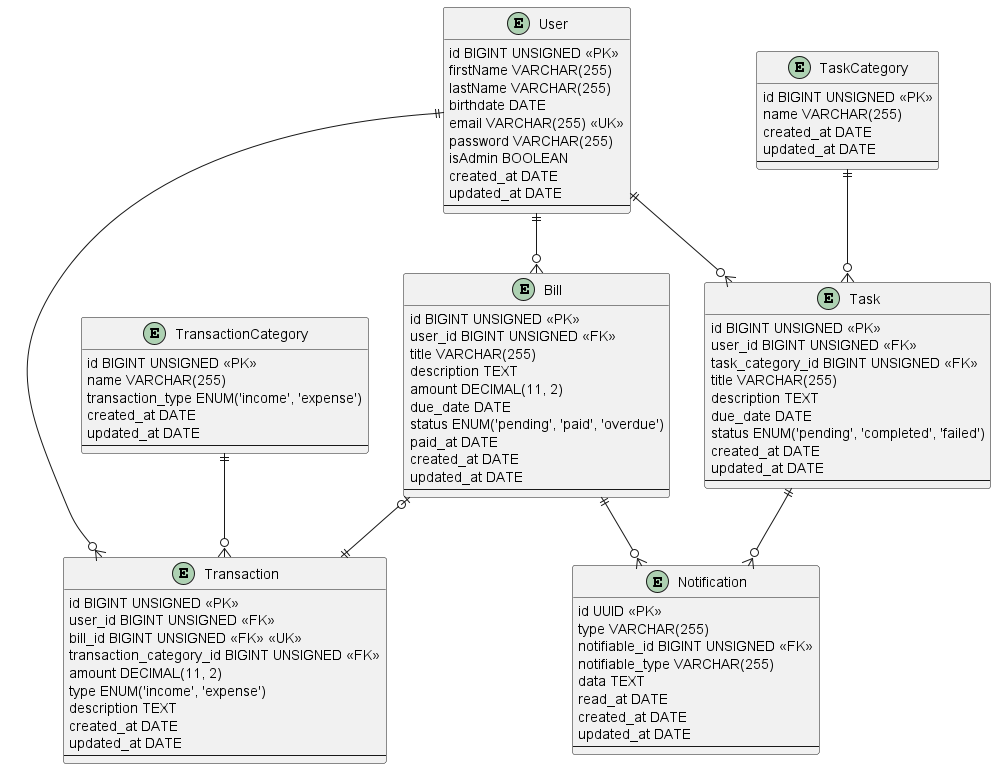
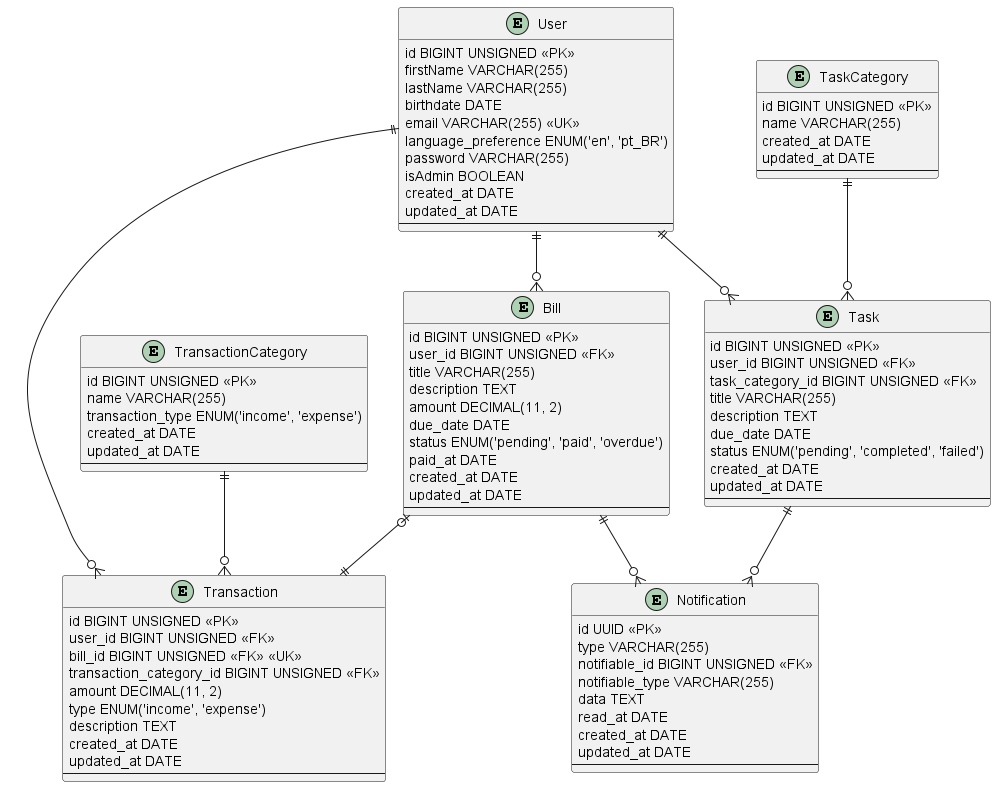
feat: add column language_preference to users
column to provide a way for the user to choose between two languages that are going to be available to be switched by preference: english an brazilian portuguese.

diff --git a/database/migrations/0001_01_01_000000_create_users_table.php b/database/migrations/0001_01_01_000000_create_users_table.php
@@ -14,6 +14,7 @@ return new class extends Migration {
             $table->boolean('is_admin')->default(false);
             $table->date('birthdate');
             $table->string('email')->unique();
+            $table->enum('language_preference', ['en', 'pt_BR'])->default('en');
             $table->timestamp('email_verified_at')->nullable();
             $table->string('password');
             $table->rememberToken();

diff --git a/app/Http/Requests/UserRequest.php b/app/Http/Requests/UserRequest.php
@@ -26,6 +26,7 @@ class UserRequest extends FormRequest
             'last_name' => 'required|string|max:255',
             'birthdate' => 'required|date',
             'email' => 'required|string|lowercase|email|max:255|unique:users',
+            'language_preference' => 'in:en,pt_BR',
             'password' => 'bail|required|confirmed|min:8',
         ];
     }

diff --git a/app/Models/User.php b/app/Models/User.php
@@ -26,6 +26,7 @@ class User extends Authenticatable
         'last_name',
         'birthdate',
         'email',
+        'language_preference',
         'password',
     ];
 
